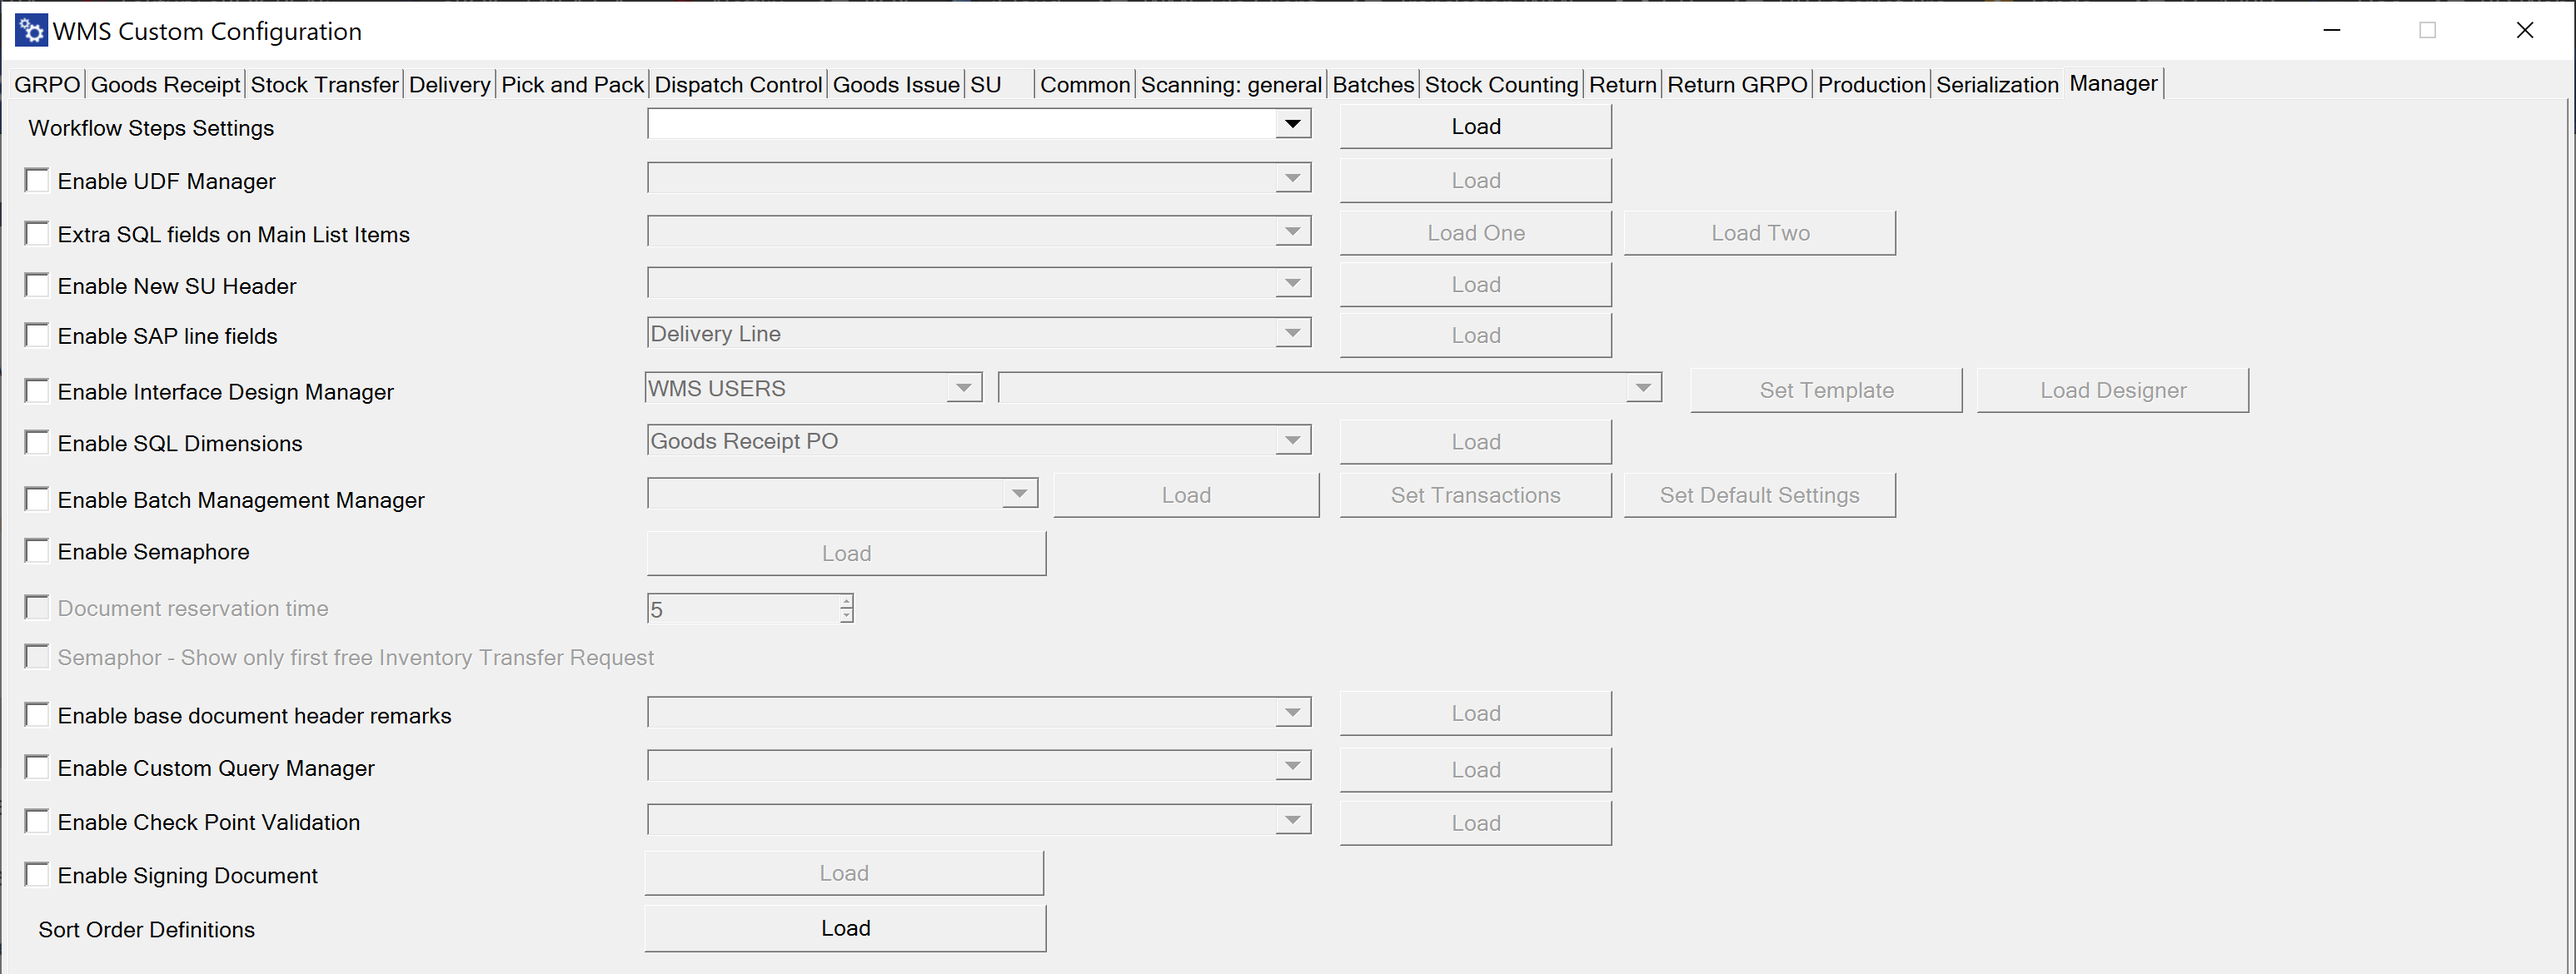
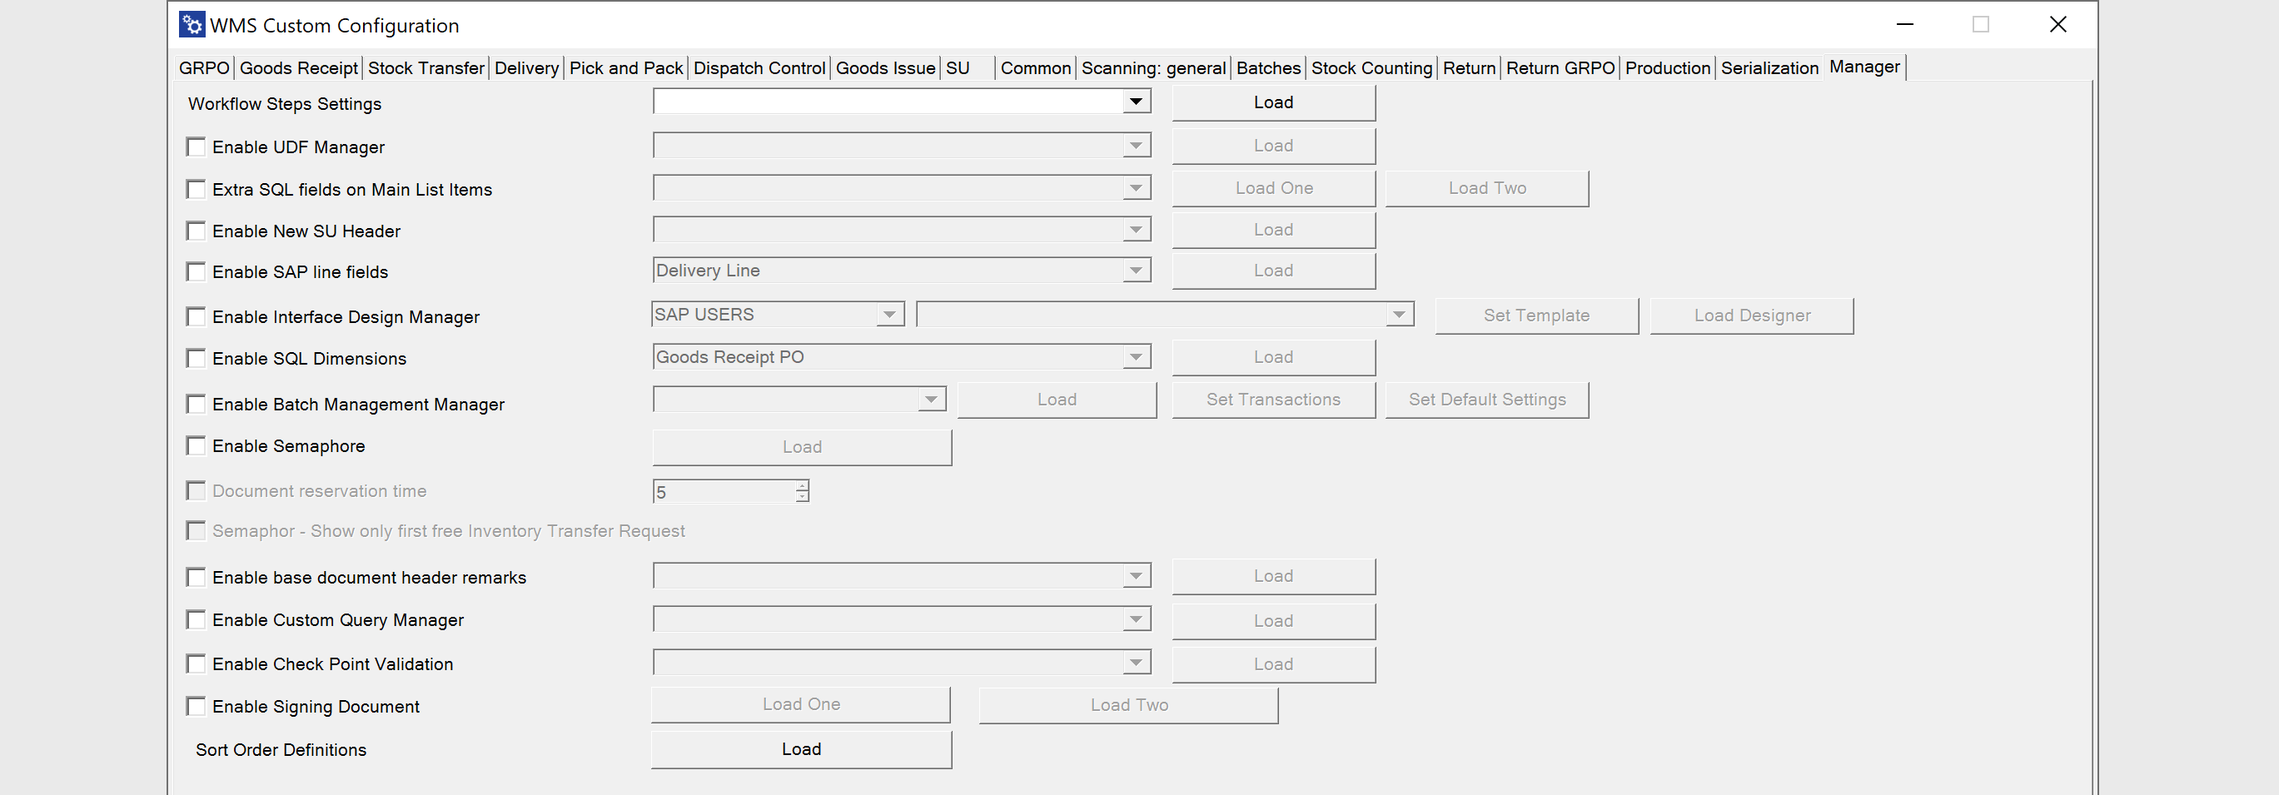
update enable signing document guide to support two signatures and improve image descriptions

diff --git a/docs/wms/administrator-guide/custom-configuration/custom-configuration-functions/manager/enable-signing-document.md b/docs/wms/administrator-guide/custom-configuration/custom-configuration-functions/manager/enable-signing-document.md
@@ -4,17 +4,15 @@ sidebar_position: 12
 
 # Enable Signing Document
 
-The option allows input and save a signature for a number of documents created in CompuTec WMS.
-
----
+The option allows input and save two signatures for a number of documents created in CompuTec WMS.
 
 ## Requirements
 
 ### Set up the picture and attachment paths
 
-It is required to set the Pictures and Attachments path different than the default ones in SAP Business One (Both paths – Picture Folder and Attachments Folder – have to be the same to see the signature in the related UDF in the related documents in SAP Business One).
+It is required to set the **Pictures** and **Attachments** path different than the default ones in SAP Business One (Both paths – **Picture Folder** and **Attachments Folder** – have to be the same to see the signatures in the related UDF in the related documents in SAP Business One).
 
-You can do it in SAP Business One Main Menu → Administration → System Initialization → General Settings → Path tab:
+You can do it in **SAP Business One Main Menu** → **Administration** → **System Initialization** → **General Settings** → **Path** tab:
 
 ![Path](./media/signature-path.webp)
 
@@ -30,25 +28,25 @@ If you are using a custom menu view in Interface Design Manager, please uncheck 
 
 Open Custom Configuration, go to Manager tab and check the Enable Signing Document check box. Then click the Load button next to it to choose the required documents.
 
-![Enable signing document option](./media/enable-signing-document-option.webp)
+![enable signing in document with one or two signatures](./media/manager-sign.png)
 
-Checking the Display checkbox activates the option (it is then available in the Remarks form of the specific document):
+Checking the **Required** checkbox blocks saving of a document without a signature.
 
-![Remarks](./media/remarks-signature.webp)
+Checking the **Display** checkbox activates the option (it is then available in the Remarks form of the specific document):
 
-Checking the Required checkbox blocks saving of a document without a signature.
+![Remarks](./media/signing.png)
 
-Clicking the highlighted icon leads to the Document Signature form:
+Clicking the **highlighted icon** leads to the **Document Signature** form:
 
-![Document Signature Form](./media/document-signature-form.webp)
+![Document Signature Form](./media/sign.png)
 
 Use the three icons (from left) to:
 
 - go back without saving
 - erase already started signature
-- save a signature.
+- save a signature
 
-A saved signature is then available in SAP Business One in the related document's UDFs: open a specific form (e.g. Goods Receipt PO), find the document, click Ctrl + Shitf + U. The saved signature is available in the Signature Document fields. Click it to get the full view.
+Saved signatures are then available in SAP Business One in the related document's UDFs: open a specific form (e.g. Goods Receipt PO), find the document, click Ctrl + Shitf + U. The saved signatures are available in the Signature Document fields. Click it to get the full view.
 
 ### Document drafts
 
